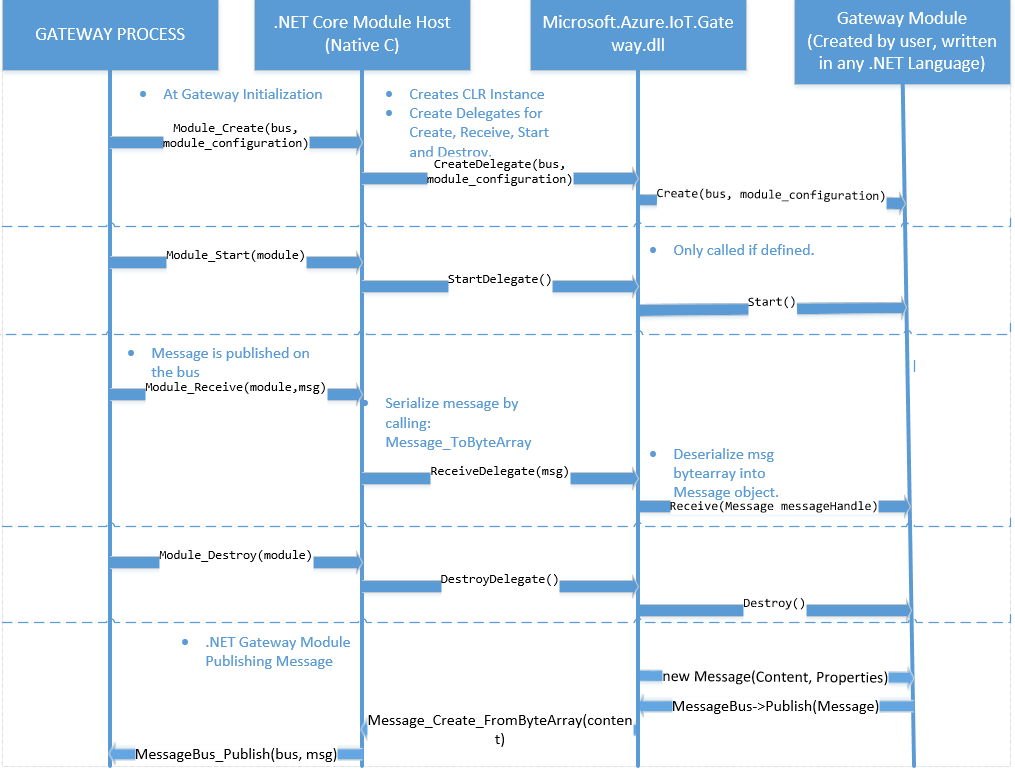
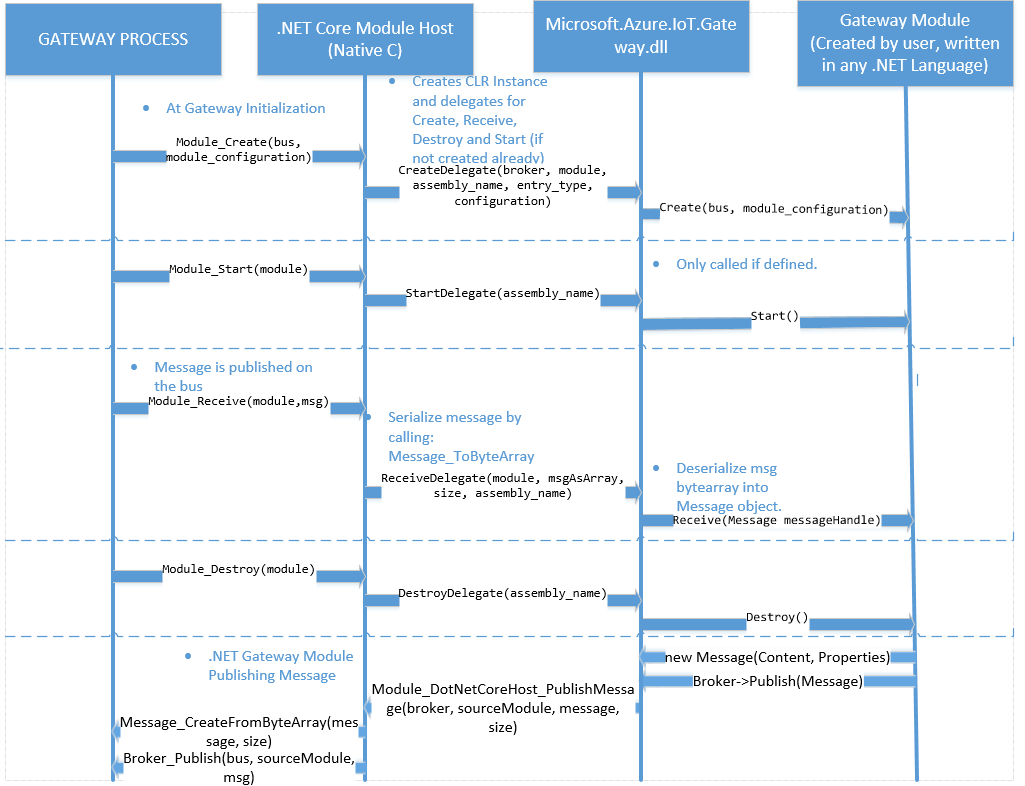
Changes on High Level Design for 1 CLR per process and management of .NET Core LifeCycle.

diff --git a/bindings/dotnetcore/devdoc/dotnet_core_binding_hld.md b/bindings/dotnetcore/devdoc/dotnet_core_binding_hld.md
@@ -30,7 +30,7 @@ Design
 ---------------------
 The **.NET Core Module Host** is a C module that
 
-1. Creates a [.NET Core](https://github.com/dotnet/) CLR instance;
+1. Creates a [.NET Core](https://github.com/dotnet/) CLR instance (If not created already, since we can only have one instance of the .NET Core CLR per process);
 
 2. Creates delegates for .NET Module Calls (Create, destroy, receive, start);
 
@@ -74,11 +74,11 @@ The JSON configuration for [.NET Core](https://github.com/dotnet/)  Module will 
 When the **.NET Core Module Host**’s `Module_Create` function is invoked by the
 gateway process, it:
 
--   Creates a CLR instance by calling `coreclr_initialize; 
+-   If a CLR instance has not already been initialized, creates a new CLR instance by calling `coreclr_initialize`. 
 
--   Creates [.NET Core](https://github.com/dotnet/)  Delegates for Create, Receive, Start and Destroy;
+-   Creates [.NET Core](https://github.com/dotnet/)  Delegates for Create, Receive, Start and Destroy.
 
--   Calls Create Delegate, which will call the Create method on the user [.NET Core](https://github.com/dotnet/)  Module (Module that implemented `IGatewayModule`);
+-   Calls Create Delegate, which will call the Create method on the user [.NET Core](https://github.com/dotnet/)  Module (Module that implemented `IGatewayModule`).
 
 ### Module\_Start
 
@@ -109,16 +109,20 @@ gateway, it:
 .NET Wrappers and objects
 -------------------------
 
-This is going to be a layer written in .NET that will wrap a method in our host that is responsible to publish a given message. 
+This is going to be a layer written in .NET that will wrap a method in our host that is responsible for publishing a given message. 
 For [.NET Core](https://github.com/dotnet/)  Modules the following wrappers will be provided:
 
-1. `Message` - Object that represents a message;
+1. `Message` - Class that represents a message;
 
-2. `Broker` - Object that represents the broker, which passes messages between modules;
+2. `Broker` - Class that represents the broker, which passes messages between modules;
 
 3. `IGatewayModule` - interface that has to be implemented by the [.NET Core](https://github.com/dotnet/)  Module; 
 
-4. `nativeDotNetHostWrapper` - Uses DLLImport to marshal call to dotnetHost_PublishMessage. This will be transparent to the .NET User, it will be called by the Broker Class when the user calls Publish.
+4. `nativeDotNetHostWrapper` - Uses DLLImport to marshal call to dotnetHost_PublishMessage. This will be transparent to the managed module implementer. It will be called by the `Broker` class when the user calls `Publish`.
+
+5. `NativeManagedGatewayInterop` - Holds all the instances of the .NET Core modules that have been loaded. Uses reflection to check if the module implements `IGatewayModule` and calls the module methods. 
+
+6. `DotNetCoreModuleInstance` - This class holds an `IGatewayModule` object and `MethodInfo`s for `Receive`, `Destroy` and `Start`(if implemented). `nativeManageGatewayInterop` stores an instance of this class per loaded module. 
 
 The high level design of these objects and interfaces is documented below:
 
